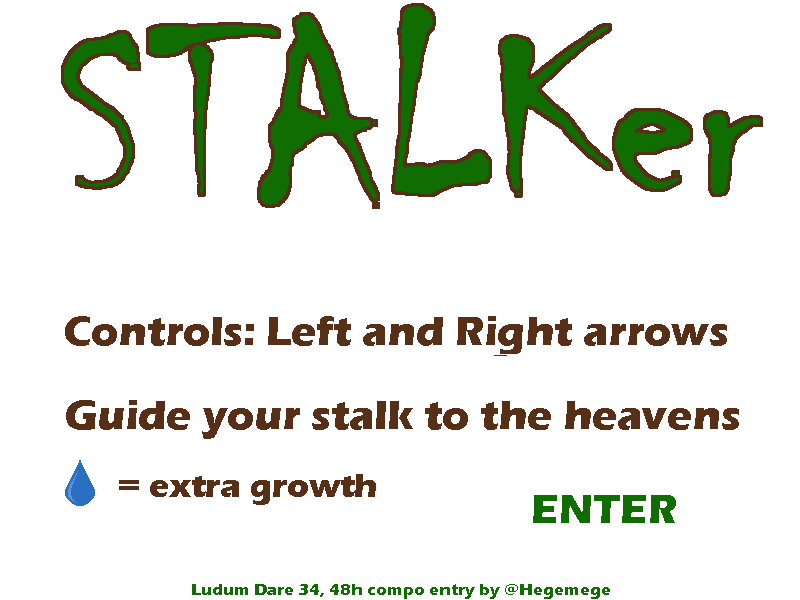
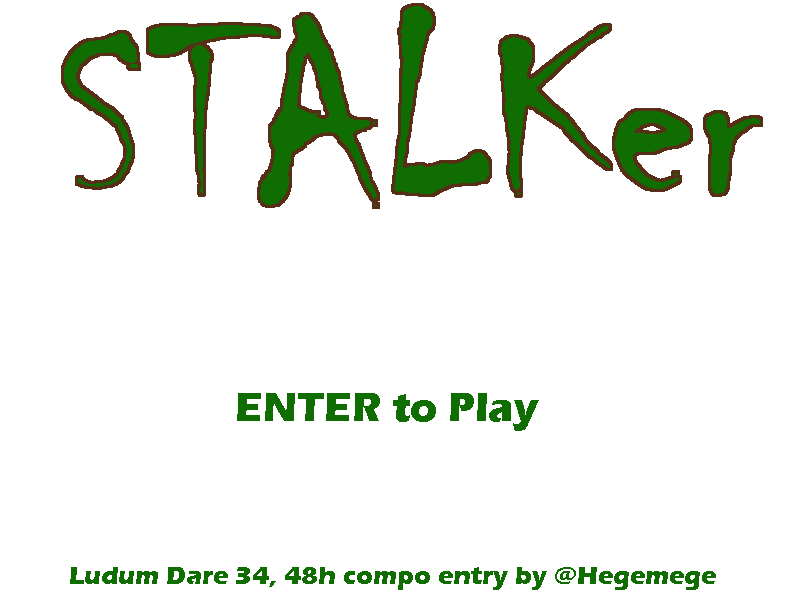
tutorial

diff --git a/src/js/States/menu.js b/src/js/States/menu.js
@@ -15,11 +15,13 @@ Menu.prototype = {
     create: function() {
         this.bg = game.add.sprite(0, 0, "gamebg");
         this.bg2 = game.add.sprite(0, 0, "menubg");
+        this.bg3 = game.add.sprite(0, 0, "tutorialbg");
+        this.bg3.visible = false;
 
         enterkey = game.input.keyboard.addKey(Phaser.Keyboard.ENTER);
-        enterkey.onDown.add(this.startGame, this);
+        enterkey.onDown.add(this.hitEnter, this);
 
-
+        this.tutcounter = 0;
         
     },
 
@@ -27,7 +29,14 @@ Menu.prototype = {
 
     },
 
-    startGame: function() {
-        game.state.start("Game");
-    }
+    hitEnter: function() {
+        this.tutcounter += 1;
+        if (this.tutcounter == 1) {
+            this.bg2.visible = false;
+            this.bg3.visible = true;
+        }
+        if (this.tutcounter == 2) {
+            game.state.start("Game");
+        }
+    },
 }

diff --git a/src/js/States/splash.js b/src/js/States/splash.js
@@ -17,6 +17,7 @@ Splash.prototype = {
         // Backgrounds
         game.load.image('gamebg', 'content/bg/wholebg.jpg');
         game.load.image('menubg', 'content/bg/menu.png');
+        game.load.image('tutorialbg', 'content/bg/tutorial.png');
 
         // Sprites
         game.load.image('seedspr', 'content/sprites/seed.png');
